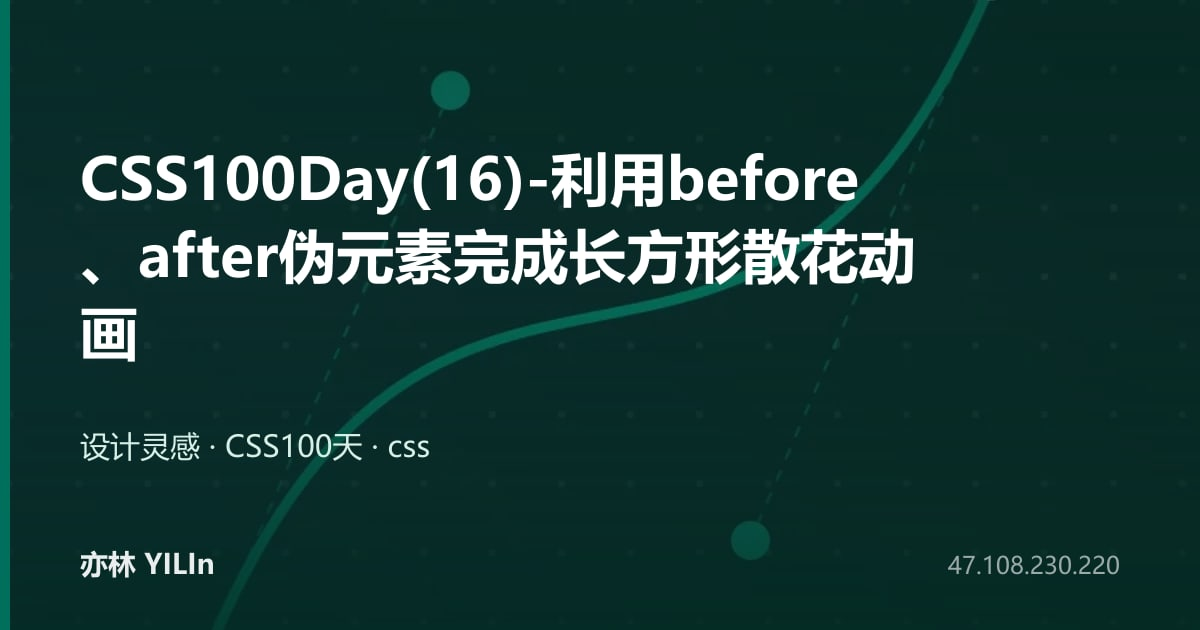
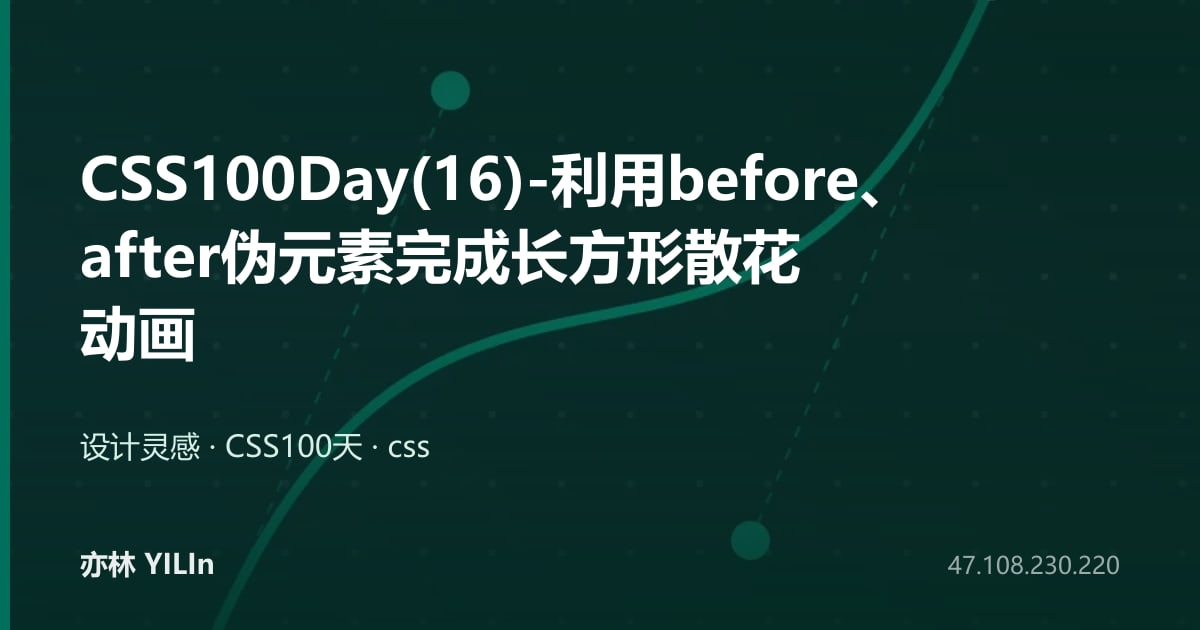
DSH 篇改名为 Deepseek harness：极光和日间（V0.1.70）
- title 改为用户指定文案；slug 不变，URL 仍 /posts/dsh-interface-design/
- og 脚本新增两条折行修正：末行不足 2 单位从上一行回补（防孤字行）、行首标点回搬
- 重生成分享图 3 张（本篇 + CSS100Day 第16/18 天），其余 29 张字节不变
- AGENTS 附录段下沉到 docs/agents/harness.md 第四节，注入链回到预算内
- HANDOFF 记第二十三批（含知识库仓库未推送的教训）

Changed region(s): [[0.0617, 0.3619, 0.7708, 0.4524], [0.0617, 0.4825, 0.185, 0.573], [0.7092, 0.3016, 0.74, 0.3317]]

diff --git a/docs/agents/harness.md b/docs/agents/harness.md
@@ -879,3 +879,24 @@ page.goto: net::ERR_PROXY_CONNECTION_FAILED at http://47.108.230.220/404.html
 > 与"常驻层预算"是**两条独立的纪律**：① 预算管"会不会被静默截断"（harness.md B-2，`docs:check` 可测）；
 > ② 本条管"会不会把会话拖爆"（**没有工具能测，只能靠自律**）。
 > 两条都指向同一个动作：**内容下沉到分册、常驻层只留钩子**。
+---
+
+## 四、本 harness（DSH）与上一任工具的差异（2026-11-04 从 AGENTS.md 下沉，原文逐字）
+## 附：本 harness（DeepSeek Harness）与上一任工具的差异
+
+2026-10-12 从 Qoder 接管。**项目规则一条没变，变的是"我能用什么工具"。** 下表全部经过本机实测：
+
+| 事项 | 现在（DSH） |
+|---|---|
+| 自动注入的指令 | `~/.dsh/AGENTS.md`（当前不存在）→ `AGENTS.md` → `AGENTS.local.md`，**合计封顶 65536 字节**。⚠ `HANDOFF.md` 与 `docs/agents/*` **不会自动注入，要自己 Read**。 |
+| 上一任的跨会话记忆 | **本 harness 没有记忆功能** → 已全部落盘进 `docs/agents/harness.md` + `AGENTS.local.md`。**仓库文件是唯一载体，别再往任何外部记忆系统写。** |
+| 浏览器验证 | **2026-10-12 已装 DSH 的 playwright browser-use provider**（在 `~\.dsh\profiles\desktop\`，不在仓库内）。⚠ **但本会话仍无工具** —— provider 不接管已活动 Session，**要新建/恢复 Session** 才出现 `mcp__playwright-mcp__*`。在那之前用 `npm run probe`（已实测跑通线上页截图与探针）。⚠ **别改成 `headless: false`**：本机无完整版 `chromium-1243`，而 README 写「启动失败会**拒绝 Session 创建**」→ 会让新会话起不来。回滚备份 `~\.dsh\browser-plugin-profile-backup\`。细节见 `harness.md` C-1。 |
+| 右侧「浏览器」面板 | 桌面 profile **默认已启用**（用户按 **Ctrl+T**）。⚠ 它**不给模型任何工具**（README：用户侧呈现状态），且与我经 MCP 起的浏览器**互不共享状态** → **别承诺"我帮你打开右侧浏览器"**，做不到；要两边看同一页面需改 `mode: attach`（未做）。 |
+| 停止后台任务 | `job_kill`：**同样只杀外壳、node 子进程照残留** → 九节的精确匹配流程原样适用。 |
+| 长时间命令 | `pwsh` + `run_in_background` → `job_output`/`job_kill`；退出码看 `[exit code: N]`；长输出会被截尾并落盘。 |
+| 设计类流程 | 上一任的 `superpowers:brainstorming` **在这里没有同名技能**。语义照旧：**先扒参考实现 → 出短设计 → 停下等批准 → 再写代码**。可用 skill：`ui-ux-pro-max` / `frontend-design` / `design-taste-frontend` / `tailwind-4-docs` / `gsap-*`。 |
+| 部署类技能 | **仍用第六节那套手工流程**。上一任装过 `alibabacloud-ecs-code-deploy`（走 aliyun appmanager、要 AccessKey，与宝塔 + Nginx 手工配置可能冲突）；本环境没有它，也不需要。 |
+| MCP | **本 harness 未接入任何 MCP**。扒 GitHub 用 `git clone --depth 1 --filter=blob:none --sparse` 只取所需目录。 |
+
+✅ **"隐藏标签页里 transition 不推进"已证伪**：无头探针造不出隐藏态（`visibilityState` 恒 visible）→ 这里不可能自然发生；上一任看到的是**真症状、错归因**（CPU 节流 20x 下定时器 752~4638ms，**transition 与 rAF 不受影响**）。
+🔴 **通则：别拿"页面被隐藏"当默认解释**；判据与复现见 `harness.md` **B-19**。

diff --git a/HANDOFF.md b/HANDOFF.md
@@ -3,8 +3,27 @@
 > **分工**：`AGENTS.md` 存长期不变的规则与事实；本文件存**会变的状态**与**下一步该做什么**。
 > 本文件不重复 AGENTS.md 的内容，只引用。每次会话结束前必须更新本文件。
 >
-> 最后更新：**2026-10-30 深夜第二句（第二十二批：老测试平台存档文 + 项目内留一份，已上线 V0.1.69）**。
+> 最后更新：**2026-11-04（第二十三批：知识库 TestPlantAI 档案 + DSH 篇改名，已上线 V0.1.70）**。
 >
+> **🔧 2026-11-04（第二十三批：知识库项目档案 + DSH 篇改名，V0.1.70）**
+> 用户先问「诶 你没有部署吗」——**知识库是独立 git 仓库**（`github.com/ks3356143/chenjiaojiao-kb`，非本博客仓库），
+> 上一轮只写文件没 commit/push，已补：`d6f3583` → `origin/main`，29 个文件（3 改 + 26 新增，含 23 张截图 3.3MB）。
+> ⚠ **教训：任何落到「另一个仓库」的产出，交付前必须 commit + push 并报远端 SHA**，否则等于没交付。
+> ① **知识库新增项目档案区**：`2-工作事务/项目档案/`（一个项目一个目录），
+>    `testplantAI/README.md` + `testplantAI/TestPlantAI深度拆解.md`（14.4k 字 / 7 h2 / 14 h3 / 23 图）。
+>    索引四处同步：顶层 `README.md`（目录树 + 入口表）、`2-工作事务/README.md`、`知识库规范.md`（补该区约定与截图命名规则）。
+>    截图统一 `_附件/TestPlantAI-模块-YYYYMMDD.jpg`（1800px 宽 JPEG q90）。
+> ② **DSH 篇改名**：`title: DSH 皮肤：极光与日间` → **`Deepseek harness：极光和日间`**（用户指定原文大小写），
+>    `updated: 2026-11-04`；URL 不变（`/posts/dsh-interface-design/`，**只动 title 不动 slug**）。
+> ③ 🔴 **og 分享图折行新增两条修正（`scripts/generate-og.mjs`）**：新标题 15.22 单位按 15 单位切会让末行只剩「间」。
+>    - `fixOrphans()`：**末行 < 2 个单位就从上一行末尾搬字下来**（上一行剩 < 2.5 单位则不动，防搬空）。
+>    - 行首标点回搬：`NO_LINE_START` 正则把 `、，。：；！？）」》…` 挪到上一行末尾
+>      （CSS100Day(16) 实测把「、」甩到了行首）。
+>    → 触发重生成的只有 3 张：`dsh-interface-design` / `css100天-第16天` / `css100天-第18天`，**其余 29 张字节不变**（已 md5 逐个比对）。
+> ④ 门禁：`build` 0、`check` **0 error / 3 hint**；产物断言（title / og:title / og:image / h1=1 / h2=5 / 3 图 / 旧标题全站残留 0）；
+>    线上 **51/51 HTML 逐字节相同**；三档（1440/375/768）+ 软导航全过，横向溢出 0px、断图 0、pageerror 0；
+>    Pagefind 索引已含新标题（gunzip `pf_fragment` 验的，不是 grep 二进制）。
+> ⑤ 版本 `0.1.69 → 0.1.70`（只改了标题与 og 脚本，无依赖变动）。
 > **🔧 2026-10-30 深夜 第三句（用户「E:\pycharmProjects\cdtestplant_v1-AI 这里有个项目是之前老项目，你发一篇文章，然后在项目放进去，然后说明下是老的测试平台，老的！」）**：
 > 上线 **V0.1.69**，线上 **51/51 HTML md5 逐字节相同**。新篇 **`/posts/cdtestplant-v1/`**《测试管理平台 V1：一套已经老了的测评系统》，
 > **分类「工具」（第 4 篇，未新增分类值）**；2240 字 / 11 分钟；8 个 h2；4 张整屏图。

diff --git a/src/content/posts/dsh-interface-design.md b/src/content/posts/dsh-interface-design.md
@@ -1,7 +1,7 @@
 ---
-title: DSH 皮肤：极光与日间
+title: Deepseek harness：极光和日间
 published: 2026-10-30
-updated: 2026-10-30
+updated: 2026-11-04
 description: "同一套 DSH 桌面端界面，两套皮肤：深色极光 HUD、浅色日间玻璃。两张整屏图先看外观，再看它们在解决什么，最后说我为什么日常用深色那套。"
 tags: [设计, 界面, DSH]
 category: "设计灵感"
